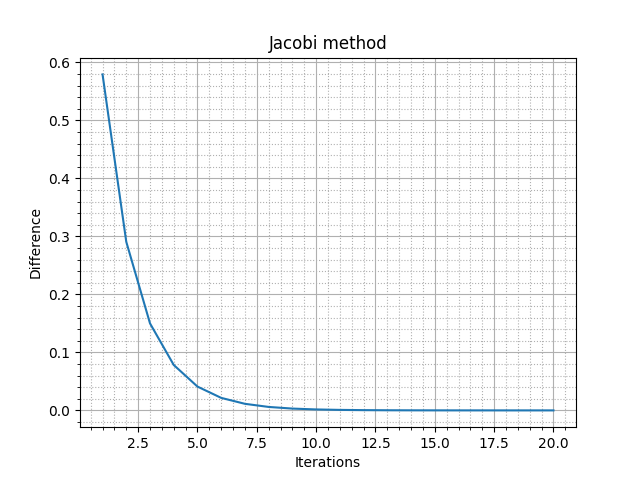
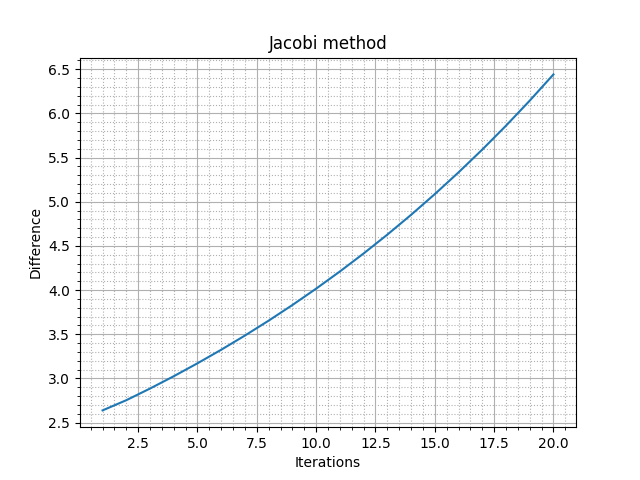
README.md added. Lab2 done

diff --git a/lab2/lab.py b/lab2/lab.py
@@ -161,9 +161,6 @@ class Matrix:
         ]
         return Matrix(inverse)
 
-    #def calc_det
-    #def calc_own_values
-    #def calc_own_vectors
 
 # Gauss method
 def solveGauss(matrix_in: Matrix, right_side_in: list):
@@ -295,12 +292,11 @@ def solveSeidel(matrix_in: Matrix, right_side: list, iter_amnt: int, answer: lis
     return X
 
  
-n = 3
+n = 10
 matrix = Matrix(n, n, lambda i, j: 1 * (j == i) + (1 / (j + i)) * (i != j))
 right_side = [1 / i for i in range(1, n + 1)]
 
 resGauss = solveGauss(matrix, right_side)
-print()
 
 resJacobi = solveJacobi(matrix, right_side, 20, resGauss)
 resSeidel = solveSeidel(matrix, right_side, 20, resGauss)

diff --git a/lab2/README.md b/lab2/README.md
@@ -1,1 +1,39 @@
+## Отчет по выполнению лабораторной работы №2. Методы решения СЛАУ.
     Note: В качестве СЛАУ был выбран пункт "к".
+
+Целью данной работы было исследование различных методов решения СЛАУ. 
+
+В качестве матрицы возьмем:
+|||||||||
+|-|-|-|-|-|-|-|-|
+1.000000 | 0.333333 | 0.250000 | 0.200000 | 0.166667 | 0.142857 | 0.125000 | 0.111111 | 0.100000 | 0.090909 
+0.333333 | 1.000000 | 0.200000 | 0.166667 | 0.142857 | 0.125000 | 0.111111 | 0.100000 | 0.090909 | 0.083333 
+0.250000 | 0.200000 | 1.000000 | 0.142857 | 0.125000 | 0.111111 | 0.100000 | 0.090909 | 0.083333 | 0.076923 
+0.200000 | 0.166667 | 0.142857 | 1.000000 | 0.111111 | 0.100000 | 0.090909 | 0.083333 | 0.076923 | 0.071429 
+0.166667 | 0.142857 | 0.125000 | 0.111111 | 1.000000 | 0.090909 | 0.083333 | 0.076923 | 0.071429 | 0.066667 
+0.142857 | 0.125000 | 0.111111 | 0.100000 | 0.090909 | 1.000000 | 0.076923 | 0.071429 | 0.066667 | 0.062500 
+0.125000 | 0.111111 | 0.100000 | 0.090909 | 0.083333 | 0.076923 | 1.000000 | 0.066667 | 0.062500 | 0.058824 
+0.111111 | 0.100000 | 0.090909 | 0.083333 | 0.076923 | 0.071429 | 0.066667 | 1.000000 | 0.058824 | 0.055556 
+0.100000 | 0.090909 | 0.083333 | 0.076923 | 0.071429 | 0.066667 | 0.062500 | 0.058824 | 1.000000 | 0.052632 
+0.090909 | 0.083333 | 0.076923 | 0.071429 | 0.066667 | 0.062500 | 0.058824 | 0.055556 | 0.052632 | 1.000000
+
+### Прямой метод решения
+
+В качестве прямого метода решения СЛАУ был использован метод Гаусса. Метод Гаусса дает невязку ~ 0 при точности в 6 десятичных знаков.
+
+### Итерационные методы
+
+Все методы выполнялись в 20 итерация, т.к. при уже при 20 невязка ответа была ~ 0.
+
+1) ***Метод Зейделя*** \
+![](images/Siedel.png)
+
+
+
+2) ***Метод Якоби*** \
+Т.к. у нашей матрицы не выполняется условие диагонального преобладания, то метод Якоби не будет сходится, что хорошо видно на графике. \
+![](images/Jacobi.png)
+
+### Выводы
+
+Из анализа графиков получим, что метод Зейделя довольно быстро сходится и уже с пятой итерации показывает невязку ~ 0. Метод Якоби же вообще не схоится, поэтому с каждой итерацией его невязка только растет.

diff --git a/lab1/README.md b/lab1/README.md
@@ -1,4 +1,4 @@
-## Отчет по выполнению первой лаборраторной работыт по вычислительной математике
+## Отчет по выполнению первой лабораторной работы по вычислительной математике
 
 Целью данной работы было исследование разных численных методов подсчета производных. Для этого было предоставлено пять различных формул производных:
 
